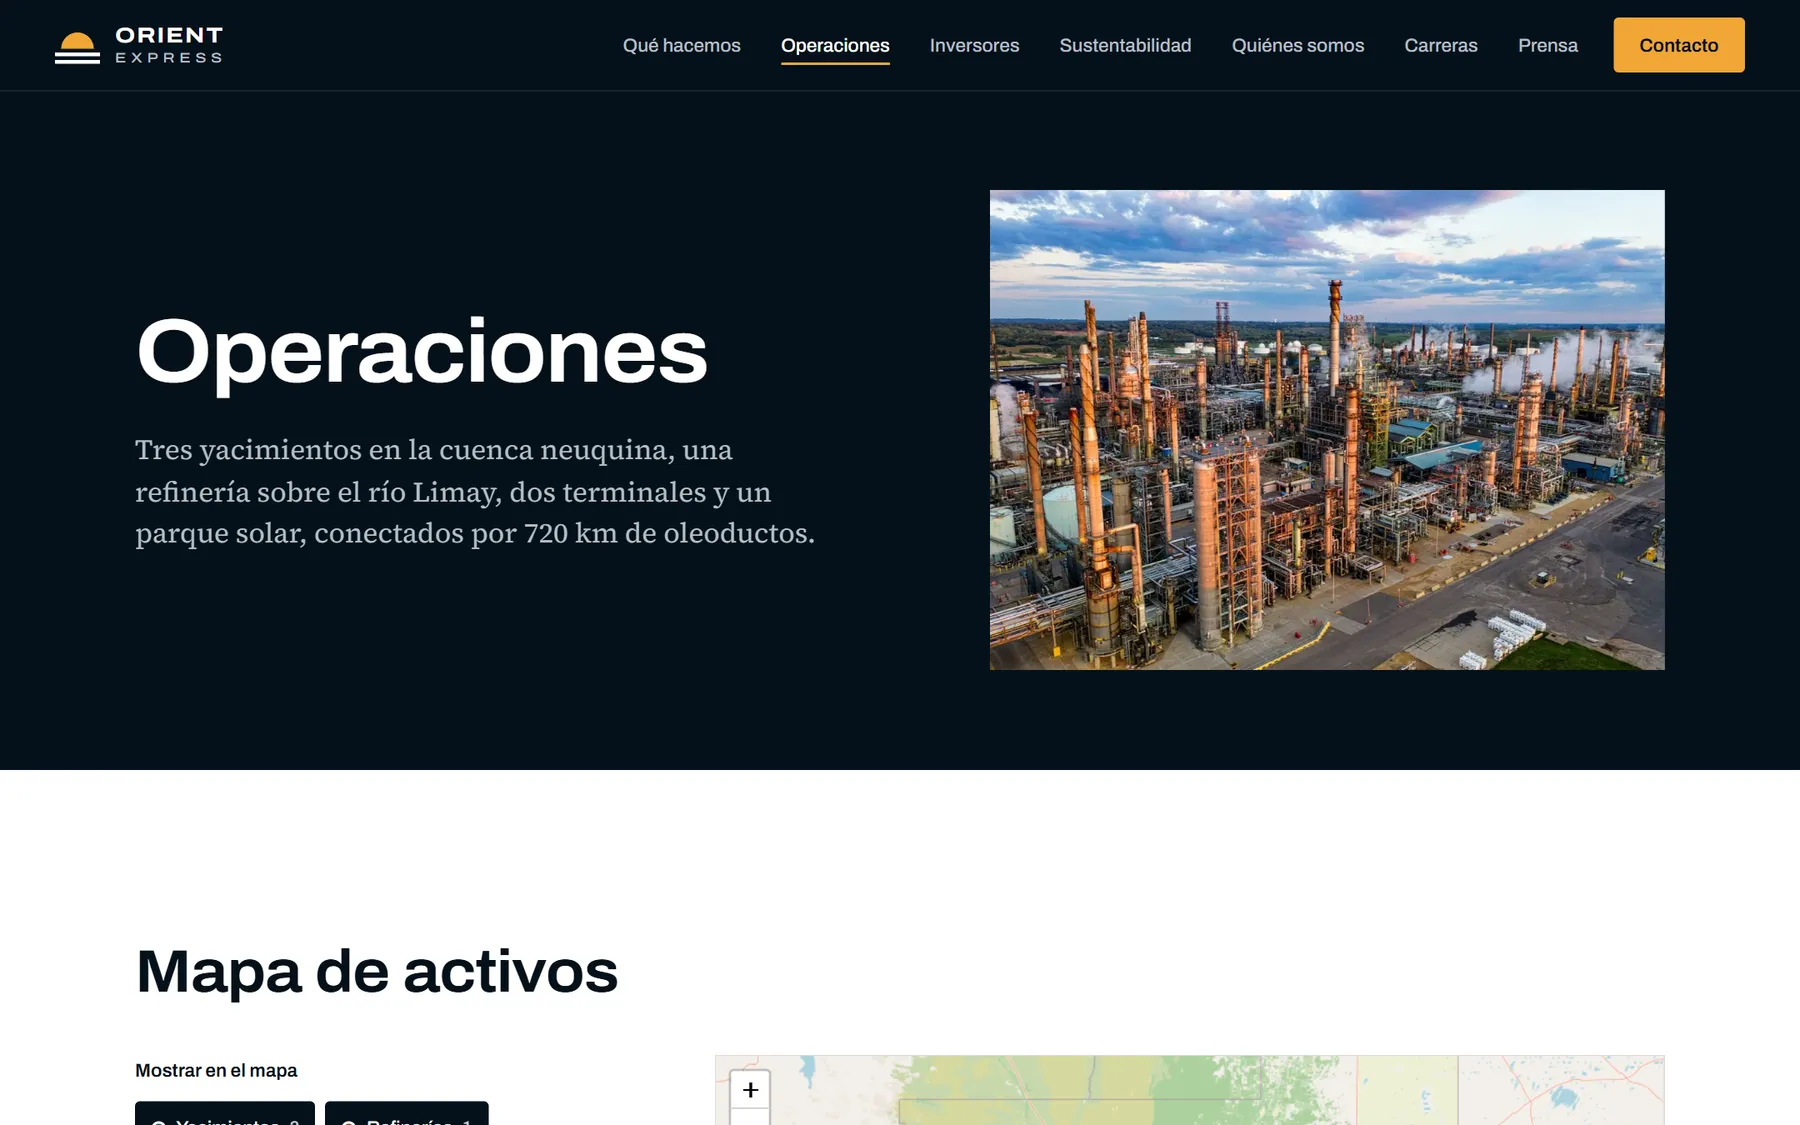
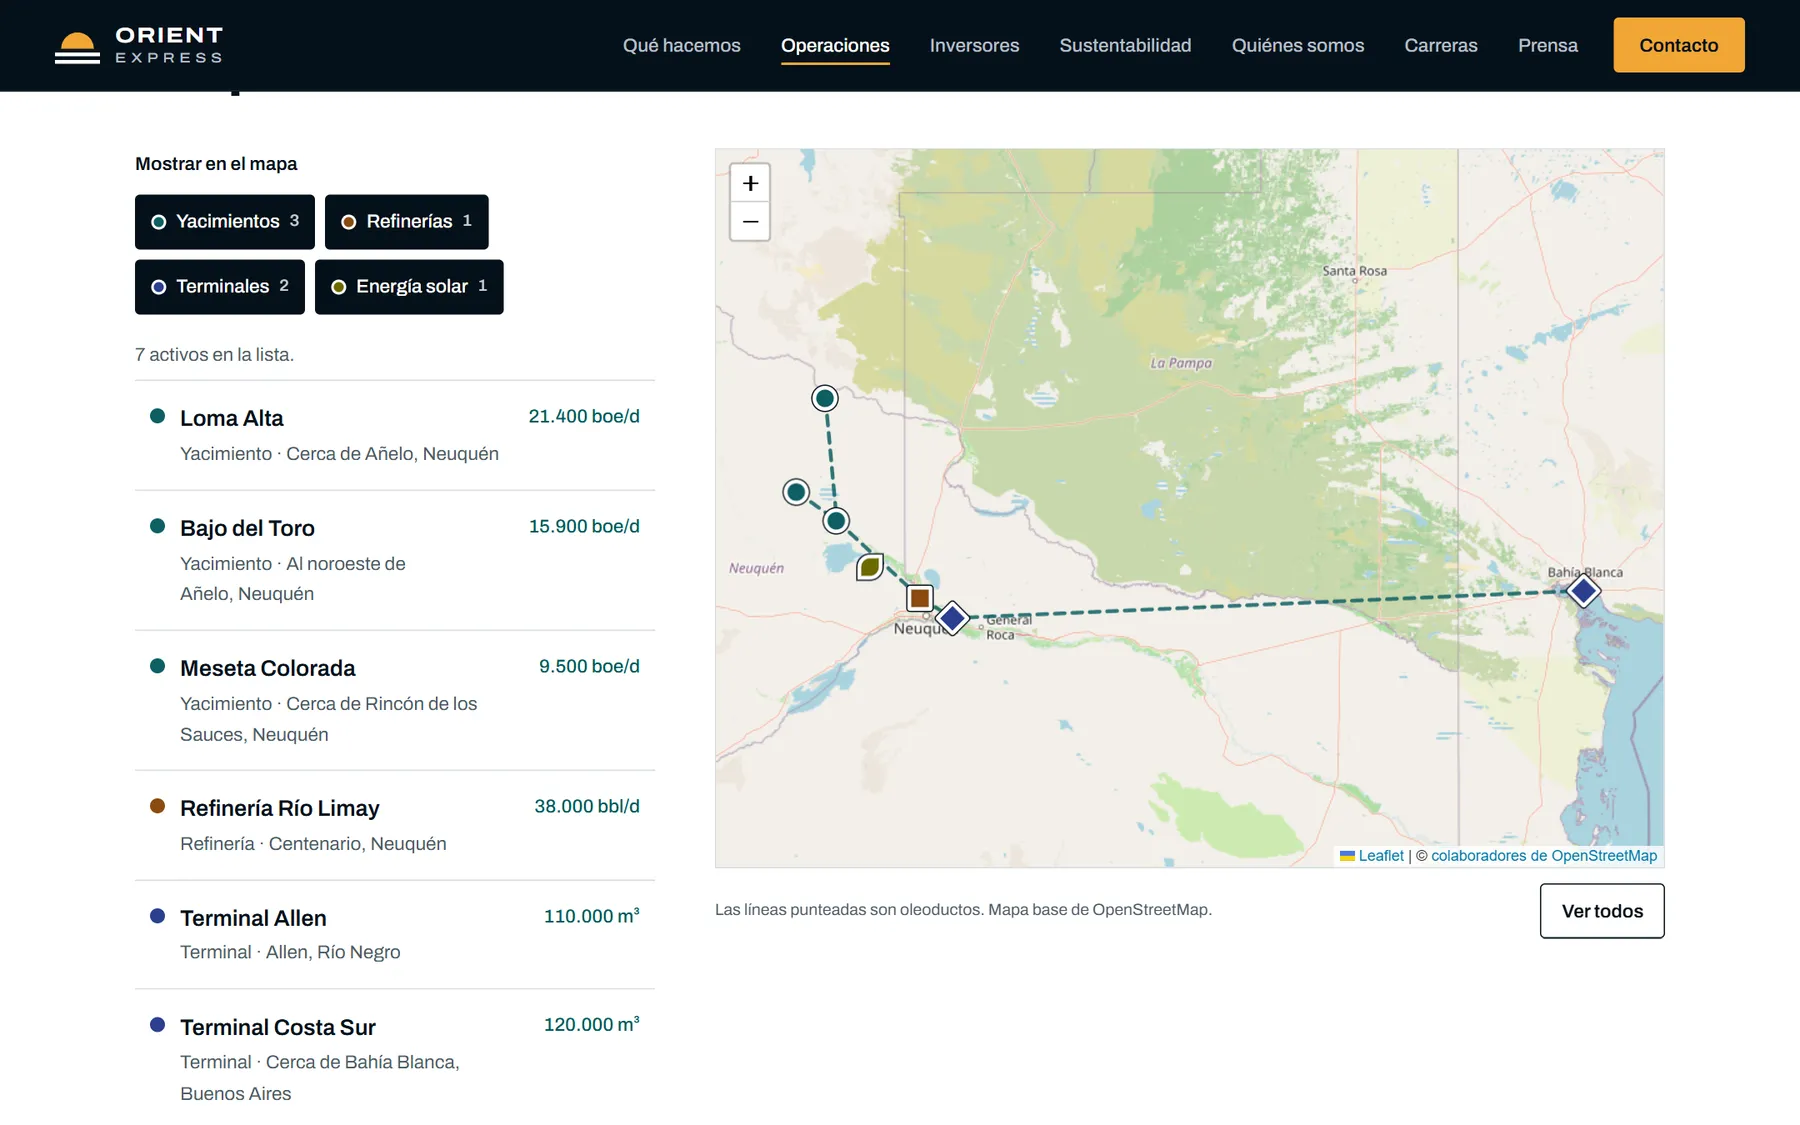
feat: imagen Open Graph de la portada y captura del mapa de Orient Express

diff --git a/app/opengraph-image.tsx b/app/opengraph-image.tsx
@@ -1,0 +1,13 @@
+import { ogContentType, ogSize, renderOg } from "@/lib/og";
+
+export const alt =
+  "López Tech: sitios web y aplicaciones móviles, de la idea a la publicación";
+export const size = ogSize;
+export const contentType = ogContentType;
+
+export default async function Image() {
+  return renderOg({
+    title: "Tu sitio web o tu app, de la idea a la publicación",
+    subtitle: "Desarrollo web y de apps móviles desde Argentina.",
+  });
+}
